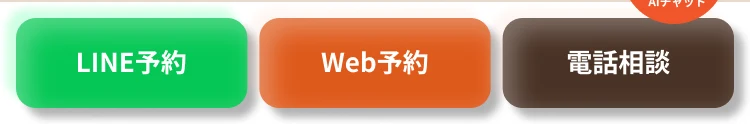
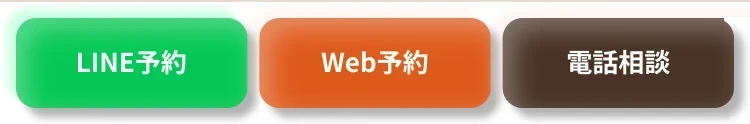
Move AI chat button above back-to-top button
Claude-Session: https://claude.ai/code/session_01GKysvMgQaFn1SDy6QJPiim

diff --git a/public/assets/app.css b/public/assets/app.css
@@ -39,7 +39,7 @@ img{display:block;width:100%;height:auto;user-select:none;-webkit-user-drag:none
 .totop{position:fixed;right:max(12px,calc(50% - 215px + 12px));bottom:calc(76px + env(safe-area-inset-bottom));width:42px;height:42px;border-radius:50%;border:1.5px solid var(--o);background:rgba(255,255,255,.95);color:var(--o);font-size:16px;z-index:35;opacity:0;transform:translateY(10px);transition:opacity .3s,transform .3s var(--ease);cursor:pointer}
 .totop.on{opacity:1;transform:none}
 @media (prefers-reduced-motion:reduce){*,*::before,*::after{animation:none!important;transition:none!important}.rv img{opacity:1;transform:none}body{opacity:1}}
-.ai{position:absolute;left:82.4%;top:-67.7%;width:14.93%;aspect-ratio:1;padding:0;border:0;background:none;border-radius:50%;cursor:pointer;z-index:3;filter:drop-shadow(0 4px 8px rgba(0,0,0,.18));animation:aiPulse 3.2s ease-in-out 1.2s infinite}
+.ai{position:absolute;left:calc(100% - 33px - 7.465%);top:auto;bottom:calc(100% + 58px);width:14.93%;aspect-ratio:1;padding:0;border:0;background:none;border-radius:50%;cursor:pointer;z-index:3;filter:drop-shadow(0 4px 8px rgba(0,0,0,.18));animation:aiPulse 3.2s ease-in-out 1.2s infinite}
 .ai img{border-radius:50%}
 .ai:active{transform:scale(.94)}
 @keyframes aiPulse{0%,100%{transform:translateY(0)}50%{transform:translateY(-3px)}}

diff --git a/public/v5/assets/app.css b/public/v5/assets/app.css
@@ -39,7 +39,7 @@ img{display:block;width:100%;height:auto;user-select:none;-webkit-user-drag:none
 .totop{position:fixed;right:max(12px,calc(50% - 215px + 12px));bottom:calc(76px + env(safe-area-inset-bottom));width:42px;height:42px;border-radius:50%;border:1.5px solid var(--o);background:rgba(255,255,255,.95);color:var(--o);font-size:16px;z-index:35;opacity:0;transform:translateY(10px);transition:opacity .3s,transform .3s var(--ease);cursor:pointer}
 .totop.on{opacity:1;transform:none}
 @media (prefers-reduced-motion:reduce){*,*::before,*::after{animation:none!important;transition:none!important}.rv img{opacity:1;transform:none}body{opacity:1}}
-.ai{position:absolute;left:82.4%;top:-67.7%;width:14.93%;aspect-ratio:1;padding:0;border:0;background:none;border-radius:50%;cursor:pointer;z-index:3;filter:drop-shadow(0 4px 8px rgba(0,0,0,.18));animation:aiPulse 3.2s ease-in-out 1.2s infinite}
+.ai{position:absolute;left:calc(100% - 33px - 7.465%);top:auto;bottom:calc(100% + 58px);width:14.93%;aspect-ratio:1;padding:0;border:0;background:none;border-radius:50%;cursor:pointer;z-index:3;filter:drop-shadow(0 4px 8px rgba(0,0,0,.18));animation:aiPulse 3.2s ease-in-out 1.2s infinite}
 .ai img{border-radius:50%}
 .ai:active{transform:scale(.94)}
 @keyframes aiPulse{0%,100%{transform:translateY(0)}50%{transform:translateY(-3px)}}

diff --git a/tools/build.py b/tools/build.py
@@ -150,7 +150,13 @@ def build():
             im.paste(im.crop((612 - 260, fy - 88, 740 - 260, fy)), (612, fy - 88))
         if no == '01':
             im.crop((0, 0, im.width, round(67 * sc))).save(os.path.join(PUB, 'assets', 'header.webp'), quality=88)
-            if fx: im.crop((0, round(fx[1] * sc), im.width, round((fx[1] + fx[2]) * sc))).save(os.path.join(PUB, 'assets', 'fixed.webp'), quality=88)
+            if fx:
+                fb = im.crop((0, round(fx[1] * sc), im.width, round((fx[1] + fx[2]) * sc))).convert('RGB')
+                # 固定バー画像に写り込んだAIチャットボタンの下端を消す（ボタンはHTML側で別配置）
+                for yy in range(0, 30):
+                    c = fb.getpixel((610, yy)) if yy < 17 else fb.getpixel((560, yy))
+                    for xx in range(600 if yy < 17 else 622, fb.width if yy < 17 else 724): fb.putpixel((xx, yy), c)
+                fb.save(os.path.join(PUB, 'assets', 'fixed.webp'), quality=90)
         # スライス（セクション単位）→ アコーディオン位置でさらに分割
         px = lambda x, y: '#%02x%02x%02x' % im.getpixel((min(im.width - 1, round(x * sc)), min(im.height - 1, round(y * sc))))
         def dark(x0, x1, y):
